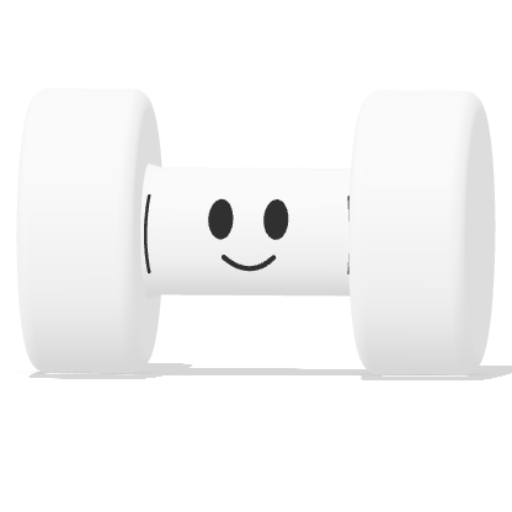
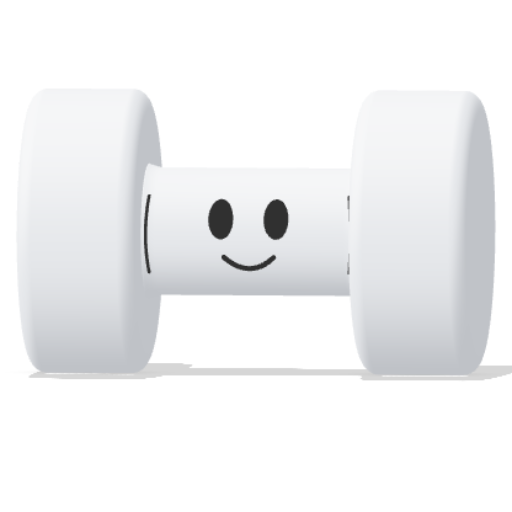
v4.5.30 - use approved mascot finishes in share exports

Changed region(s): [[0.875, 0.1875, 0.9688, 0.7188], [0.0938, 0.1875, 0.3125, 0.7188], [0.5312, 0.5625, 0.5938, 0.5938]]

diff --git a/js/core.js b/js/core.js
@@ -1,7 +1,7 @@
 /* ShowUp — core.js
    Extracted verbatim from index.html (v3.2.5 refactor). Classic script:
    shares one global scope with its siblings, loaded in order by index.html. */
-const APP_VERSION = 'v4.5.29';
+const APP_VERSION = 'v4.5.30';
 const SEED0 = {catalog:{"Chest":["Incline Smith Machine Bench Press","Flat Smith Machine Bench Press","Incline Dumbbell Bench Press","Chest Press","Chest Fly","Cable Fly Up","Cable Fly Down","Chest Squeeze","Dip","Barbell Bench Press","Incline Barbell Bench Press","Decline Barbell Bench Press","Dumbbell Bench Press","Decline Dumbbell Bench Press","Machine Chest Press","Cable Crossover","Incline Cable Fly","Low Cable Fly","Dumbbell Pullover","Landmine Press","Svend Press","Push Up","Weighted Push Up"],"Back":["Pull Up","Lat Pulldown","Bent-Over Row","Deadlift","Chin Up","Weighted Pull Up","Seated Cable Row","Single-Arm Dumbbell Row","T-Bar Row","Pendlay Row","Barbell Shrug","Rack Pull","Straight-Arm Pulldown","Close-Grip Lat Pulldown","Inverted Row","Chest-Supported Row","Machine Row"],"Shoulder":["Dumbbell Shoulder Press","Lateral Raise","Dumbbell Front Raise","Dumbbell Combination","Dumbbell Bent Over Side Raise","Rear Deltoids","Overhead Barbell Press","Arnold Press","Machine Shoulder Press","Cable Lateral Raise","Face Pull","Upright Row","Reverse Pec Deck","Landmine Lateral Raise","Cable Rear Delt Fly"],"Legs":["Squat","Dumbbell Lunge","Front Squat","Hack Squat","Leg Press","Romanian Deadlift","Bulgarian Split Squat","Walking Lunge","Leg Extension","Lying Leg Curl","Seated Leg Curl","Hip Thrust","Goblet Squat","Standing Calf Raise","Seated Calf Raise","Step Up"],"Biceps":["Barbell Curl","Dumbbell Curl","Hammer Curl","EZ Bar Curl","Preacher Curl","Cable Curl","Incline Dumbbell Curl","Concentration Curl","Spider Curl","Reverse Curl","Cable Hammer Curl"],"Triceps":["Overhead Triceps Extension","Close Grip Bench Press","Triceps Pushdown","Rope Pushdown","Skull Crusher","Bench Dip","Dumbbell Kickback","Overhead Cable Extension","Diamond Push Up"],"Sixpack":["Hanging Leg Raise","Leg Raise","Plank","Cable Crunch","Russian Twist","Ab Wheel Rollout","Bicycle Crunch","Sit Up","Decline Sit Up","Mountain Climber","Side Plank"],"Run":["Run"]},ex2part:{"Incline Smith Machine Bench Press":"Chest","Flat Smith Machine Bench Press":"Chest","Incline Dumbbell Bench Press":"Chest","Chest Press":"Chest","Chest Fly":"Chest","Cable Fly Up":"Chest","Cable Fly Down":"Chest","Chest Squeeze":"Chest","Dip":"Chest","Barbell Bench Press":"Chest","Incline Barbell Bench Press":"Chest","Decline Barbell Bench Press":"Chest","Dumbbell Bench Press":"Chest","Decline Dumbbell Bench Press":"Chest","Machine Chest Press":"Chest","Cable Crossover":"Chest","Incline Cable Fly":"Chest","Low Cable Fly":"Chest","Dumbbell Pullover":"Chest","Landmine Press":"Chest","Svend Press":"Chest","Push Up":"Chest","Weighted Push Up":"Chest","Pull Up":"Back","Lat Pulldown":"Back","Bent-Over Row":"Back","Deadlift":"Back","Chin Up":"Back","Weighted Pull Up":"Back","Seated Cable Row":"Back","Single-Arm Dumbbell Row":"Back","T-Bar Row":"Back","Pendlay Row":"Back","Barbell Shrug":"Back","Rack Pull":"Back","Straight-Arm Pulldown":"Back","Close-Grip Lat Pulldown":"Back","Inverted Row":"Back","Chest-Supported Row":"Back","Machine Row":"Back","Dumbbell Shoulder Press":"Shoulder","Lateral Raise":"Shoulder","Dumbbell Front Raise":"Shoulder","Dumbbell Combination":"Shoulder","Dumbbell Bent Over Side Raise":"Shoulder","Rear Deltoids":"Shoulder","Overhead Barbell Press":"Shoulder","Arnold Press":"Shoulder","Machine Shoulder Press":"Shoulder","Cable Lateral Raise":"Shoulder","Face Pull":"Shoulder","Upright Row":"Shoulder","Reverse Pec Deck":"Shoulder","Landmine Lateral Raise":"Shoulder","Cable Rear Delt Fly":"Shoulder","Squat":"Legs","Dumbbell Lunge":"Legs","Front Squat":"Legs","Hack Squat":"Legs","Leg Press":"Legs","Romanian Deadlift":"Legs","Bulgarian Split Squat":"Legs","Walking Lunge":"Legs","Leg Extension":"Legs","Lying Leg Curl":"Legs","Seated Leg Curl":"Legs","Hip Thrust":"Legs","Goblet Squat":"Legs","Standing Calf Raise":"Legs","Seated Calf Raise":"Legs","Step Up":"Legs","Barbell Curl":"Biceps","Dumbbell Curl":"Biceps","Hammer Curl":"Biceps","EZ Bar Curl":"Biceps","Preacher Curl":"Biceps","Cable Curl":"Biceps","Incline Dumbbell Curl":"Biceps","Concentration Curl":"Biceps","Spider Curl":"Biceps","Reverse Curl":"Biceps","Cable Hammer Curl":"Biceps","Overhead Triceps Extension":"Triceps","Close Grip Bench Press":"Triceps","Triceps Pushdown":"Triceps","Rope Pushdown":"Triceps","Skull Crusher":"Triceps","Bench Dip":"Triceps","Dumbbell Kickback":"Triceps","Overhead Cable Extension":"Triceps","Diamond Push Up":"Triceps","Hanging Leg Raise":"Sixpack","Leg Raise":"Sixpack","Plank":"Sixpack","Cable Crunch":"Sixpack","Russian Twist":"Sixpack","Ab Wheel Rollout":"Sixpack","Bicycle Crunch":"Sixpack","Sit Up":"Sixpack","Decline Sit Up":"Sixpack","Mountain Climber":"Sixpack","Side Plank":"Sixpack","Run":"Run"},equip:{"Incline Smith Machine Bench Press":"smith","Flat Smith Machine Bench Press":"smith","Incline Dumbbell Bench Press":"dumbbell","Chest Press":"machine","Chest Fly":"machine","Cable Fly Up":"cable","Cable Fly Down":"cable","Chest Squeeze":"body","Dip":"body","Barbell Bench Press":"barbell","Incline Barbell Bench Press":"barbell","Decline Barbell Bench Press":"barbell","Dumbbell Bench Press":"dumbbell","Decline Dumbbell Bench Press":"dumbbell","Machine Chest Press":"machine","Cable Crossover":"cable","Incline Cable Fly":"cable","Low Cable Fly":"cable","Dumbbell Pullover":"dumbbell","Landmine Press":"barbell","Svend Press":"dumbbell","Push Up":"body","Weighted Push Up":"body","Pull Up":"body","Lat Pulldown":"cable","Bent-Over Row":"barbell","Deadlift":"barbell","Chin Up":"body","Weighted Pull Up":"body","Seated Cable Row":"cable","Single-Arm Dumbbell Row":"dumbbell","T-Bar Row":"barbell","Pendlay Row":"barbell","Barbell Shrug":"barbell","Rack Pull":"barbell","Straight-Arm Pulldown":"cable","Close-Grip Lat Pulldown":"cable","Inverted Row":"body","Chest-Supported Row":"cable","Machine Row":"cable","Dumbbell Shoulder Press":"dumbbell","Lateral Raise":"dumbbell","Dumbbell Front Raise":"dumbbell","Dumbbell Combination":"dumbbell","Dumbbell Bent Over Side Raise":"dumbbell","Rear Deltoids":"machine","Overhead Barbell Press":"barbell","Arnold Press":"dumbbell","Machine Shoulder Press":"machine","Cable Lateral Raise":"cable","Face Pull":"cable","Upright Row":"barbell","Reverse Pec Deck":"machine","Landmine Lateral Raise":"cable","Cable Rear Delt Fly":"cable","Squat":"barbell","Dumbbell Lunge":"dumbbell","Front Squat":"barbell","Hack Squat":"plate","Leg Press":"plate","Romanian Deadlift":"barbell","Bulgarian Split Squat":"dumbbell","Walking Lunge":"dumbbell","Leg Extension":"machine","Lying Leg Curl":"machine","Seated Leg Curl":"machine","Hip Thrust":"barbell","Goblet Squat":"barbell","Standing Calf Raise":"machine","Seated Calf Raise":"machine","Step Up":"dumbbell","Barbell Curl":"barbell","Dumbbell Curl":"dumbbell","Hammer Curl":"dumbbell","EZ Bar Curl":"barbell","Preacher Curl":"barbell","Cable Curl":"cable","Incline Dumbbell Curl":"dumbbell","Concentration Curl":"dumbbell","Spider Curl":"dumbbell","Reverse Curl":"barbell","Cable Hammer Curl":"cable","Overhead Triceps Extension":"machine","Close Grip Bench Press":"barbell","Triceps Pushdown":"cable","Rope Pushdown":"cable","Skull Crusher":"barbell","Bench Dip":"body","Dumbbell Kickback":"dumbbell","Overhead Cable Extension":"cable","Diamond Push Up":"body","Hanging Leg Raise":"body","Leg Raise":"body","Plank":"body","Cable Crunch":"cable","Russian Twist":"body","Ab Wheel Rollout":"body","Bicycle Crunch":"body","Sit Up":"body","Decline Sit Up":"body","Mountain Climber":"body","Side Plank":"body","Run":"run"},sessions:{},dates:[],monthly:{},pr:{},hist:{},last:{},lastSess:{},repFreq:{},exFreq:{},exLast:{},partCount:{},partLast:{},partDays:{},totals:{sessions:0,first:null,last:'0000-00-00',km:0,vol:0}};
 /* v3.2.1: the 918-day seed literal is GONE (~75% of this file). History lives
    in doc.days (Supabase + localStorage). Full seed preserved forever in git

diff --git a/index.html b/index.html
@@ -23,7 +23,7 @@ try{var _de=document.documentElement,_qp=new URLSearchParams(location.search);_d
 <meta name="theme-color" content="#F2F3F6">
 <link href="https://fonts.googleapis.com/css2?family=IBM+Plex+Sans:wght@400;500;600;700&family=IBM+Plex+Mono:wght@400;500;600;700&display=swap" rel="stylesheet">
 
-<link rel="stylesheet" href="css/app.css?v=4.5.29"><link rel="stylesheet" href="css/planner.css?v=4.5.29"><link rel="stylesheet" href="css/mascot.css?v=4.5.29"><link rel="stylesheet" href="css/plates.css?v=4.5.29">
+<link rel="stylesheet" href="css/app.css?v=4.5.30"><link rel="stylesheet" href="css/planner.css?v=4.5.30"><link rel="stylesheet" href="css/mascot.css?v=4.5.30"><link rel="stylesheet" href="css/plates.css?v=4.5.30">
 
 
 <div id="app">
@@ -88,23 +88,23 @@ try{var _de=document.documentElement,_qp=new URLSearchParams(location.search);_d
   <path d="M12 4v13M6 12l6 6 6-6"/></svg></div>
 </div>
 
-  <script src="js/core.js?v=4.5.29"></script>
-  <script src="js/derive.js?v=4.5.29"></script>
-  <script src="js/util.js?v=4.5.29"></script>
-  <script src="js/realset.js?v=4.5.29"></script>
-  <script src="js/reprange.js?v=4.5.29"></script>
-  <script src="js/verdict.js?v=4.5.29"></script>
-  <script src="js/header.js?v=4.5.29"></script>
-  <script src="js/mascot.js?v=4.5.29"></script>
-  <script src="js/plates.js?v=4.5.29"></script>
-  <script src="js/plate-canvas.js?v=4.5.29"></script>
-  <script src="js/report.js?v=4.5.29"></script>
-  <script src="js/today.js?v=4.5.29"></script>
-  <script src="js/progression.js?v=4.5.29"></script>
-  <script src="js/lift.js?v=4.5.29"></script><script src="js/writer.js?v=4.5.29"></script>
-  <script src="js/planner.js?v=4.5.29"></script>
-  <script src="js/stats.js?v=4.5.29"></script>
-  <script src="js/history.js?v=4.5.29"></script>
-  <script src="js/settings.js?v=4.5.29"></script>
-  <script src="js/stats-story.js?v=4.5.29"></script>
-  <script src="js/app.js?v=4.5.29"></script>
+  <script src="js/core.js?v=4.5.30"></script>
+  <script src="js/derive.js?v=4.5.30"></script>
+  <script src="js/util.js?v=4.5.30"></script>
+  <script src="js/realset.js?v=4.5.30"></script>
+  <script src="js/reprange.js?v=4.5.30"></script>
+  <script src="js/verdict.js?v=4.5.30"></script>
+  <script src="js/header.js?v=4.5.30"></script>
+  <script src="js/mascot.js?v=4.5.30"></script>
+  <script src="js/plates.js?v=4.5.30"></script>
+  <script src="js/plate-canvas.js?v=4.5.30"></script>
+  <script src="js/report.js?v=4.5.30"></script>
+  <script src="js/today.js?v=4.5.30"></script>
+  <script src="js/progression.js?v=4.5.30"></script>
+  <script src="js/lift.js?v=4.5.30"></script><script src="js/writer.js?v=4.5.30"></script>
+  <script src="js/planner.js?v=4.5.30"></script>
+  <script src="js/stats.js?v=4.5.30"></script>
+  <script src="js/history.js?v=4.5.30"></script>
+  <script src="js/settings.js?v=4.5.30"></script>
+  <script src="js/stats-story.js?v=4.5.30"></script>
+  <script src="js/app.js?v=4.5.30"></script>

diff --git a/sw.js b/sw.js
@@ -1,15 +1,15 @@
-const CACHE = 'showup-v4.5.29';
+const CACHE = 'showup-v4.5.30';
 const SHELL = [
   './',
   './index.html',
   './manifest.webmanifest',
-  './css/app.css?v=4.5.29',
-  './css/planner.css?v=4.5.29',
-  './css/mascot.css?v=4.5.29',
-  './js/mascot.js?v=4.5.29',
-  './js/plates.js?v=4.5.29',
-  './js/plate-canvas.js?v=4.5.29',
-  './css/plates.css?v=4.5.29',
+  './css/app.css?v=4.5.30',
+  './css/planner.css?v=4.5.30',
+  './css/mascot.css?v=4.5.30',
+  './js/mascot.js?v=4.5.30',
+  './js/plates.js?v=4.5.30',
+  './js/plate-canvas.js?v=4.5.30',
+  './css/plates.css?v=4.5.30',
   './js/mascot-renderer.js',
   './js/plate-gif.js',
   './js/plate-gif-worker.js',
@@ -25,25 +25,26 @@ const SHELL = [
   './assets/mascot-white.png',
   './assets/mascot-blue.png',
   './assets/mascot-mark-charcoal.png',
+  './assets/mascot-mark-chrome.png',
   './assets/mascot-mark-white.png',
-  './js/core.js?v=4.5.29',
-  './js/derive.js?v=4.5.29',
-  './js/util.js?v=4.5.29',
-  './js/realset.js?v=4.5.29',
-  './js/reprange.js?v=4.5.29',
-  './js/verdict.js?v=4.5.29',
-  './js/header.js?v=4.5.29',
-  './js/report.js?v=4.5.29',
-  './js/today.js?v=4.5.29',
-  './js/progression.js?v=4.5.29',
-  './js/lift.js?v=4.5.29',
-  './js/writer.js?v=4.5.29',
-  './js/planner.js?v=4.5.29',
-  './js/stats.js?v=4.5.29',
-  './js/history.js?v=4.5.29',
-  './js/settings.js?v=4.5.29',
-  './js/stats-story.js?v=4.5.29',
-  './js/app.js?v=4.5.29',
+  './js/core.js?v=4.5.30',
+  './js/derive.js?v=4.5.30',
+  './js/util.js?v=4.5.30',
+  './js/realset.js?v=4.5.30',
+  './js/reprange.js?v=4.5.30',
+  './js/verdict.js?v=4.5.30',
+  './js/header.js?v=4.5.30',
+  './js/report.js?v=4.5.30',
+  './js/today.js?v=4.5.30',
+  './js/progression.js?v=4.5.30',
+  './js/lift.js?v=4.5.30',
+  './js/writer.js?v=4.5.30',
+  './js/planner.js?v=4.5.30',
+  './js/stats.js?v=4.5.30',
+  './js/history.js?v=4.5.30',
+  './js/settings.js?v=4.5.30',
+  './js/stats-story.js?v=4.5.30',
+  './js/app.js?v=4.5.30',
   './assets/status-flat.png',
   './assets/status-up.png',
   './app-icon-blue-192.png',

diff --git a/js/progression.js b/js/progression.js
@@ -371,7 +371,7 @@ function progressionShare(card){
   const label='progression-'+state.ex.toLowerCase().replace(/[^a-z0-9]+/g,'-').replace(/-$/,'')+'-'+count+'-sessions-'+layout.dates[0]+'-'+layout.dates.at(-1);
   /* the mark has to be decoded before the canvas is drawn; showCard draws
      synchronously. A failed decode is not a reason to lose the card. */
-  const mark=new Image();mark.src='assets/mascot-mark-'+(document.documentElement.dataset.theme==='dark'?'white':'charcoal')+'.png';
+  const mark=new Image();mark.src='assets/mascot-mark-'+(document.documentElement.dataset.theme==='dark'?'white':'chrome')+'.png';
   /* v4.5.19: the real IBM Plex, not whatever the canvas falls back to. The plate
      share has loaded it for export since v3.3.x; this card was reading the CSS
      family names, which a canvas may or may not resolve. Fonts and mark are both

diff --git a/js/stats-story.js b/js/stats-story.js
@@ -504,7 +504,7 @@ function comparisonCard(card,kind){
   const data={surface:read('--surface','#fff'),ink:read('--chalk','#1c1c1c'),muted:read('--muted','#686868'),line:read('--line','#ededed'),
     accent:read('--accent','#2F4BD8'),name:firstName()||'',logo:null};
   try{const m=await import('./plate-gif.js');await m.loadExportFonts();}catch(_e){}
-  try{const logo=new Image();logo.src='assets/mascot-mark-'+(dark?'white':'charcoal')+'.png';await logo.decode();data.logo=logo;}catch(_e){}
+  try{const logo=new Image();logo.src='assets/mascot-mark-'+(dark?'white':'chrome')+'.png';await logo.decode();data.logo=logo;}catch(_e){}
   const [mm,dd]=dates[memory.index];
   const dateLabel=new Date(current,mm,dd).toLocaleDateString('en-US',{month:'long',day:'numeric'});
   showCard(()=>{

diff --git a/js/plates.js b/js/plates.js
@@ -75,7 +75,7 @@ async function sharePlateCard(){
     dark:document.documentElement.dataset.theme==='dark',colors:Object.fromEntries(Object.entries(PART_COLORS).map(([p,v])=>[p,read(v.slice(4,-1),'#888888')]))};
   try{
     const mascot=new Image();mascot.src='assets/mascot-blue.png';
-    const logo=new Image();logo.src='assets/mascot-mark-'+(data.dark?'white':'charcoal')+'.png';
+    const logo=new Image();logo.src='assets/mascot-mark-'+(data.dark?'white':'chrome')+'.png';
     const module=await import('./plate-gif.js');
     await Promise.all([mascot.decode(),logo.decode(),module.loadExportFonts()]);data.logo=logo;
     await showCard(()=>drawPlateShare(data,mascot),'showup-stacked-'+date,false);

diff --git a/js/mascot.js b/js/mascot.js
@@ -53,10 +53,10 @@ function mascotMilestoneHTML(){
 }
 const mascotMarks={};
 function mascotReceiptMark(){
-  const tone=document.documentElement.dataset.theme==='dark'?'white':'charcoal';
+  const tone=document.documentElement.dataset.theme==='dark'?'white':'chrome';
   return mascotMarks[tone]?.complete&&mascotMarks[tone]?.naturalWidth?mascotMarks[tone]:null;
 }
-for(const tone of ['white','charcoal']){
+for(const tone of ['white','chrome']){
   const image=new Image();image.src='assets/mascot-mark-'+tone+'.png';mascotMarks[tone]=image;
 }
 (function mascotLifecycle(){

diff --git a/MASCOT.md b/MASCOT.md
@@ -90,6 +90,12 @@ Existing 100-day celebrations are preserved.
 
 ## Regeneration and verification
 
+Share exports use `mascot-mark-chrome.png` for light content and
+`mascot-mark-white.png` for dark content. These are cropped from the approved
+renderer with `node tools/render-mascot-assets.cjs URL --share-marks`.
+The blue celebration uses `mascot-blue.png` (animated exports use the same renderer).
+Run `node tools/test-share-mascots.cjs` to verify both themes across export paths.
+
 No build step is introduced. For local browser checks run a localhost server
 from the repository on 8768. Install/use Playwright in an isolated tooling
 location; set NODE_PATH to it and CHROMIUM_PATH to a local Chromium executable.

diff --git a/CHANGELOG.md b/CHANGELOG.md
@@ -1,5 +1,13 @@
 # ShowUp — changelog
 
+## v4.5.30 (2026-09-13) — Current mascots in share exports
+
+- Use approved chrome logos on light share cards and updated white logos on dark
+  cards, including progression, workout receipts, stacked workouts, attendance,
+  and distance comparisons. Keep the current blue celebration mascot.
+- Regenerate transparent share marks from the shared renderer and cache the new
+  chrome mark for offline exports.
+
 ## v4.5.29 (2026-09-13) — Clearer header streak squares
 
 - Apply the approved subtle midpoint gray to light-theme header squares:
